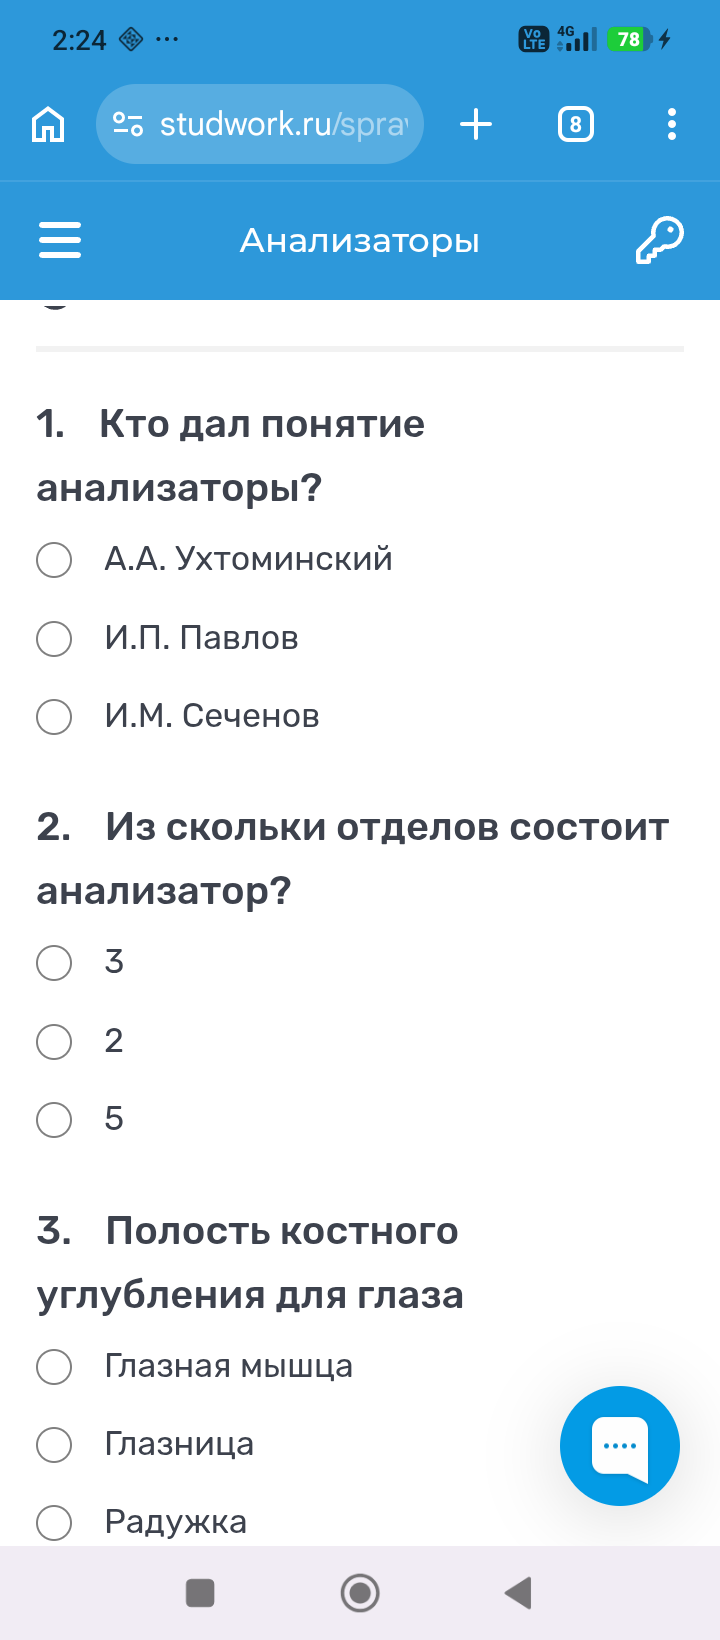
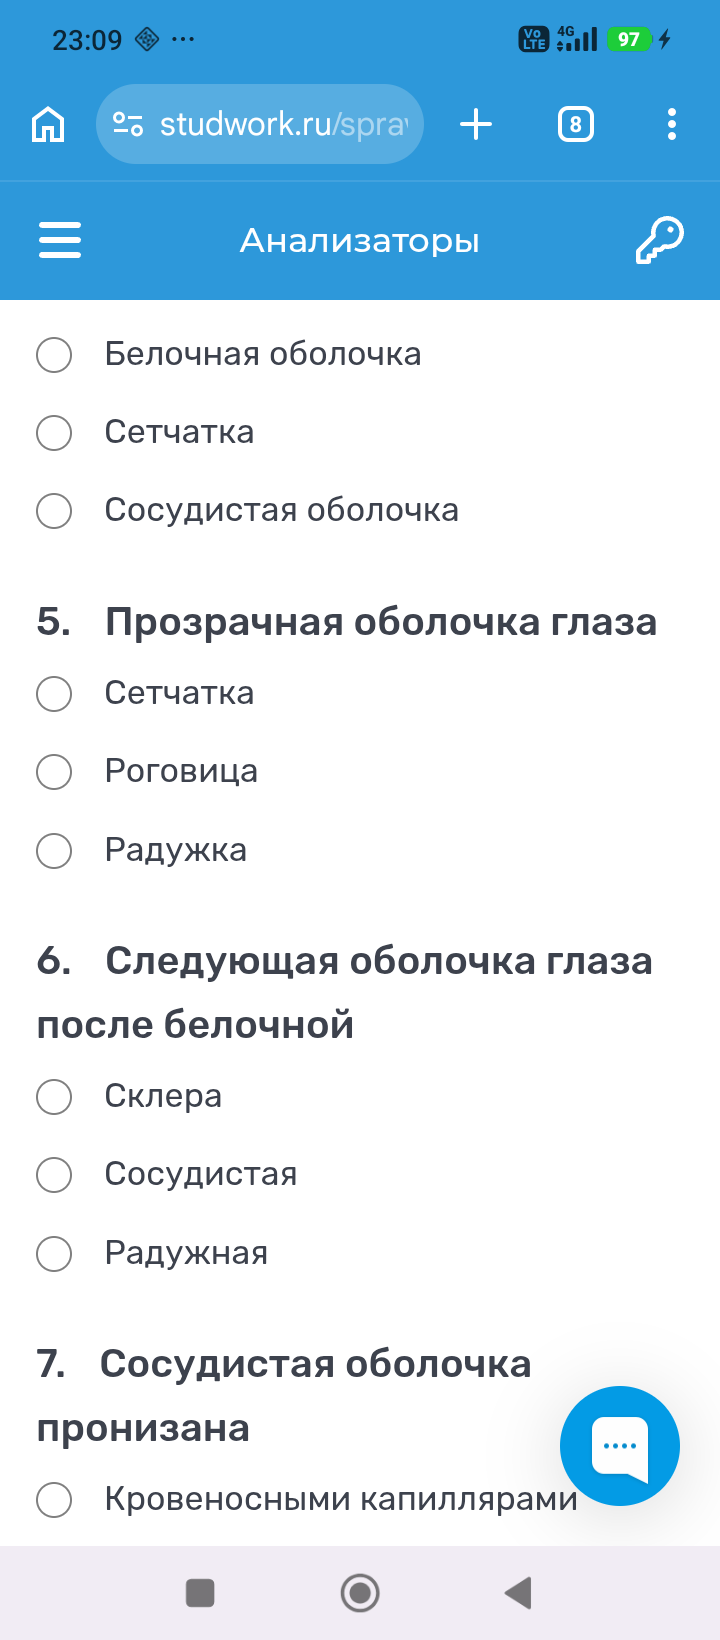
Add initial GUI

diff --git a/ocr_roi_mouse.py b/ocr_roi_mouse.py
@@ -2,24 +2,60 @@ import subprocess
 import cv2
 import pytesseract
 import pyperclip
-import keyboard
+import tkinter as tk
 
+from tkinter import messagebox
 from PIL import Image
-
-# =========================
-# CONFIG
-# =========================
-#Tesseract path
-pytesseract.pytesseract.tesseract_cmd = r"C:\Program Files\Tesseract-OCR\tesseract.exe"
 
 # =========================
 # STATE
 # =========================
 condition_texts = []
 options = []
-options_index = 0
+option_index = 0
 mode = "condition"
 last_text = ""
+
+# =========================
+# MODE HANDLING
+# =========================
+def switch_mode(new_mode):
+    global mode
+    mode = new_mode
+    print(f"\n MODE: {mode}\n")
+
+# =========================
+# SMART OCR PIPELINE
+# =========================
+def pipeline():
+    global last_text
+
+    print(f"Screenshot in mode: {mode}")
+
+    make_screenshot()
+
+    cropped_path = select_roi_scaled("screen.png")
+
+    raw_text = ocr(cropped_path)
+
+    cleaned = clean_text(raw_text)
+
+    processed = remove_overlap(cleaned, last_text)
+
+    last_text = cleaned
+
+    if mode == "condition":
+        condition_texts.append(processed)
+        print("CONDITION ADDED")
+
+    elif mode == "options":
+        handle_option(processed)
+
+# =========================
+# CONFIG
+# =========================
+#Tesseract path
+pytesseract.pytesseract.tesseract_cmd = r"C:\Program Files\Tesseract-OCR\tesseract.exe"
 
 # =========================
 # PHONE SCREENSHOT
@@ -93,44 +129,6 @@ def ocr(image_path):
     return pytesseract.image_to_string(img, lang="eng+rus")
 
 # =========================
-# MODE HANDLING
-# =========================
-def switch_mode(new_mode):
-    global mode, option_index
-    mode = new_mode
-    print(f"\n MODE: {mode}\n")
-    if mode == "options":
-        options.clear()
-        option_index = 0
-# =========================
-# SMART OCR PIPELINE
-# =========================
-
-def pipeline():
-    global last_text
-
-    print(f"Screenshot in mode: {mode}")
-
-    make_screenshot()
-
-    cropped_path = select_roi_scaled("screen.png")
-
-    raw_text = ocr(cropped_path)
-
-    cleaned = clean_text(raw_text)
-
-    processed = remove_overlap(cleaned, last_text)
-
-    last_text = cleaned
-
-    if mode == "condition":
-        condition_texts.append(processed)
-        print("CONDITION ADDED")
-
-    elif mode == "options":
-        handle_option(processed)
-
-# =========================
 # OPTIONS HANDLER (ONE BY ONE)
 # =========================
 def handle_option(text):
@@ -141,8 +139,7 @@ def handle_option(text):
     if not lines:
         return
 
-    # берём только первый “значимый” кусок
-    option_text = lines[0]
+    option_text = " ".join(lines)
 
     option_index += 1
 
@@ -171,19 +168,150 @@ def finish():
     options.clear()
 
 # =========================
-# HOTKEYS
+# UPDATE THE PREVIEW IN GUI
 # =========================
+def update_preview():
+    preview = ""
 
-print("OCR TEST TOOL ACTIVE")
-print("F7 = condition mode")
-print("F8 = capture + OCR")
-print("F9 = options mode (one-by-one)")
-print("F10 = finish & copy")
-print("ESC = exit")
+    if condition_texts:
+        preview += "\n".join(condition_texts)
 
-keyboard.add_hotkey("F7", lambda: switch_mode("condition"))
-keyboard.add_hotkey("F8", pipeline)
-keyboard.add_hotkey("F9", lambda: switch_mode("options"))
-keyboard.add_hotkey("F10", finish)
+    if options:
+        preview += "\n\n"
+        preview += "\n".join(options)
 
-keyboard.wait("esc")
+    preview_text.delete("1.0", tk.END)
+    preview_text.insert(tk.END, preview)
+
+# =========================
+# GUI SECTION
+# =========================
+def add_condition():
+    switch_mode("condition")
+    pipeline()
+
+def add_option():
+    switch_mode("options")
+    pipeline()
+
+def build_result():
+    finish()
+
+# =========================
+# BUTTON LOGIC
+# =========================
+def gui_add_condition():
+    switch_mode("condition")
+    pipeline()
+    refresh_ui()
+
+def gui_add_option():
+    switch_mode("options")
+    pipeline()
+    refresh_ui()
+
+def gui_finish():
+    finish()
+
+    messagebox.showinfo(
+        "Done",
+        "Result copied to clipboard"
+    )
+
+def clear_all():
+    global option_index, last_text
+
+    condition_texts.clear()
+    options.clear()
+
+    option_index = 0
+    last_text = ""
+
+    status_label.config(text="Cleared")
+    preview_text.delete("1.0", tk.END)
+# =========================
+# GUI WINDOW CONFIG
+# =========================
+root = tk.Tk()
+root.title("'INVASIO' - OCR Tool")
+root. geometry("1000x600")
+
+status_label = tk.Label(
+    root,
+    text="Ready",
+    font=("Arial", 30)
+)
+status_label.pack(pady=10)
+
+btn_condition = tk.Button(
+    root,
+    text="Добавить условие [Add condition]",
+    width=35,
+    font=("Arial", 18),
+    command=gui_add_condition
+)
+btn_condition.pack(pady=5)
+
+btn_option = tk.Button(
+    root,
+    text="Добавить вариант [Add option]",
+    width=35,
+    font=("Arial", 18),
+    command=gui_add_option
+)
+btn_option.pack(pady=5)
+
+btn_finish = tk.Button(
+    root,
+    text="Собрать результат [Final Result]",
+    width=35,
+    font=("Arial", 18),
+    command=gui_finish
+)
+btn_finish.pack(pady=5)
+
+btn_clear = tk.Button(
+    root,
+    text="Очистить все [Clear Selection]",
+    width=35,
+    font=("Arial", 18),
+    command=clear_all
+)
+btn_clear.pack(pady=5)
+
+preview_label = tk.Label(
+    root,
+    text="Предпросмотр",
+    font=("Arial", 15)
+)
+preview_label.pack(pady=(15,5))
+
+# =========================
+# GUI REFRESH
+# =========================
+def refresh_ui():
+    update_preview()
+    status_label.config(
+        text=f"Condition fragments: {len(condition_texts)} | Options: {len(options)}"
+    )
+
+# =========================
+# GUI PREVIEW WINDOW
+# =========================
+frame = tk.Frame(root)
+frame.pack(fill="both", expand=True, padx=10, pady=10)
+
+scrollbar = tk.Scrollbar(frame)
+
+preview_text = tk.Text(
+    frame,
+    font=("Consolas", 11),
+    yscrollcommand=scrollbar.set
+)
+
+scrollbar.config(command=preview_text.yview)
+
+scrollbar.pack(side="right", fill="y")
+preview_text.pack(side="left", fill="both", expand=True)
+
+root.mainloop()